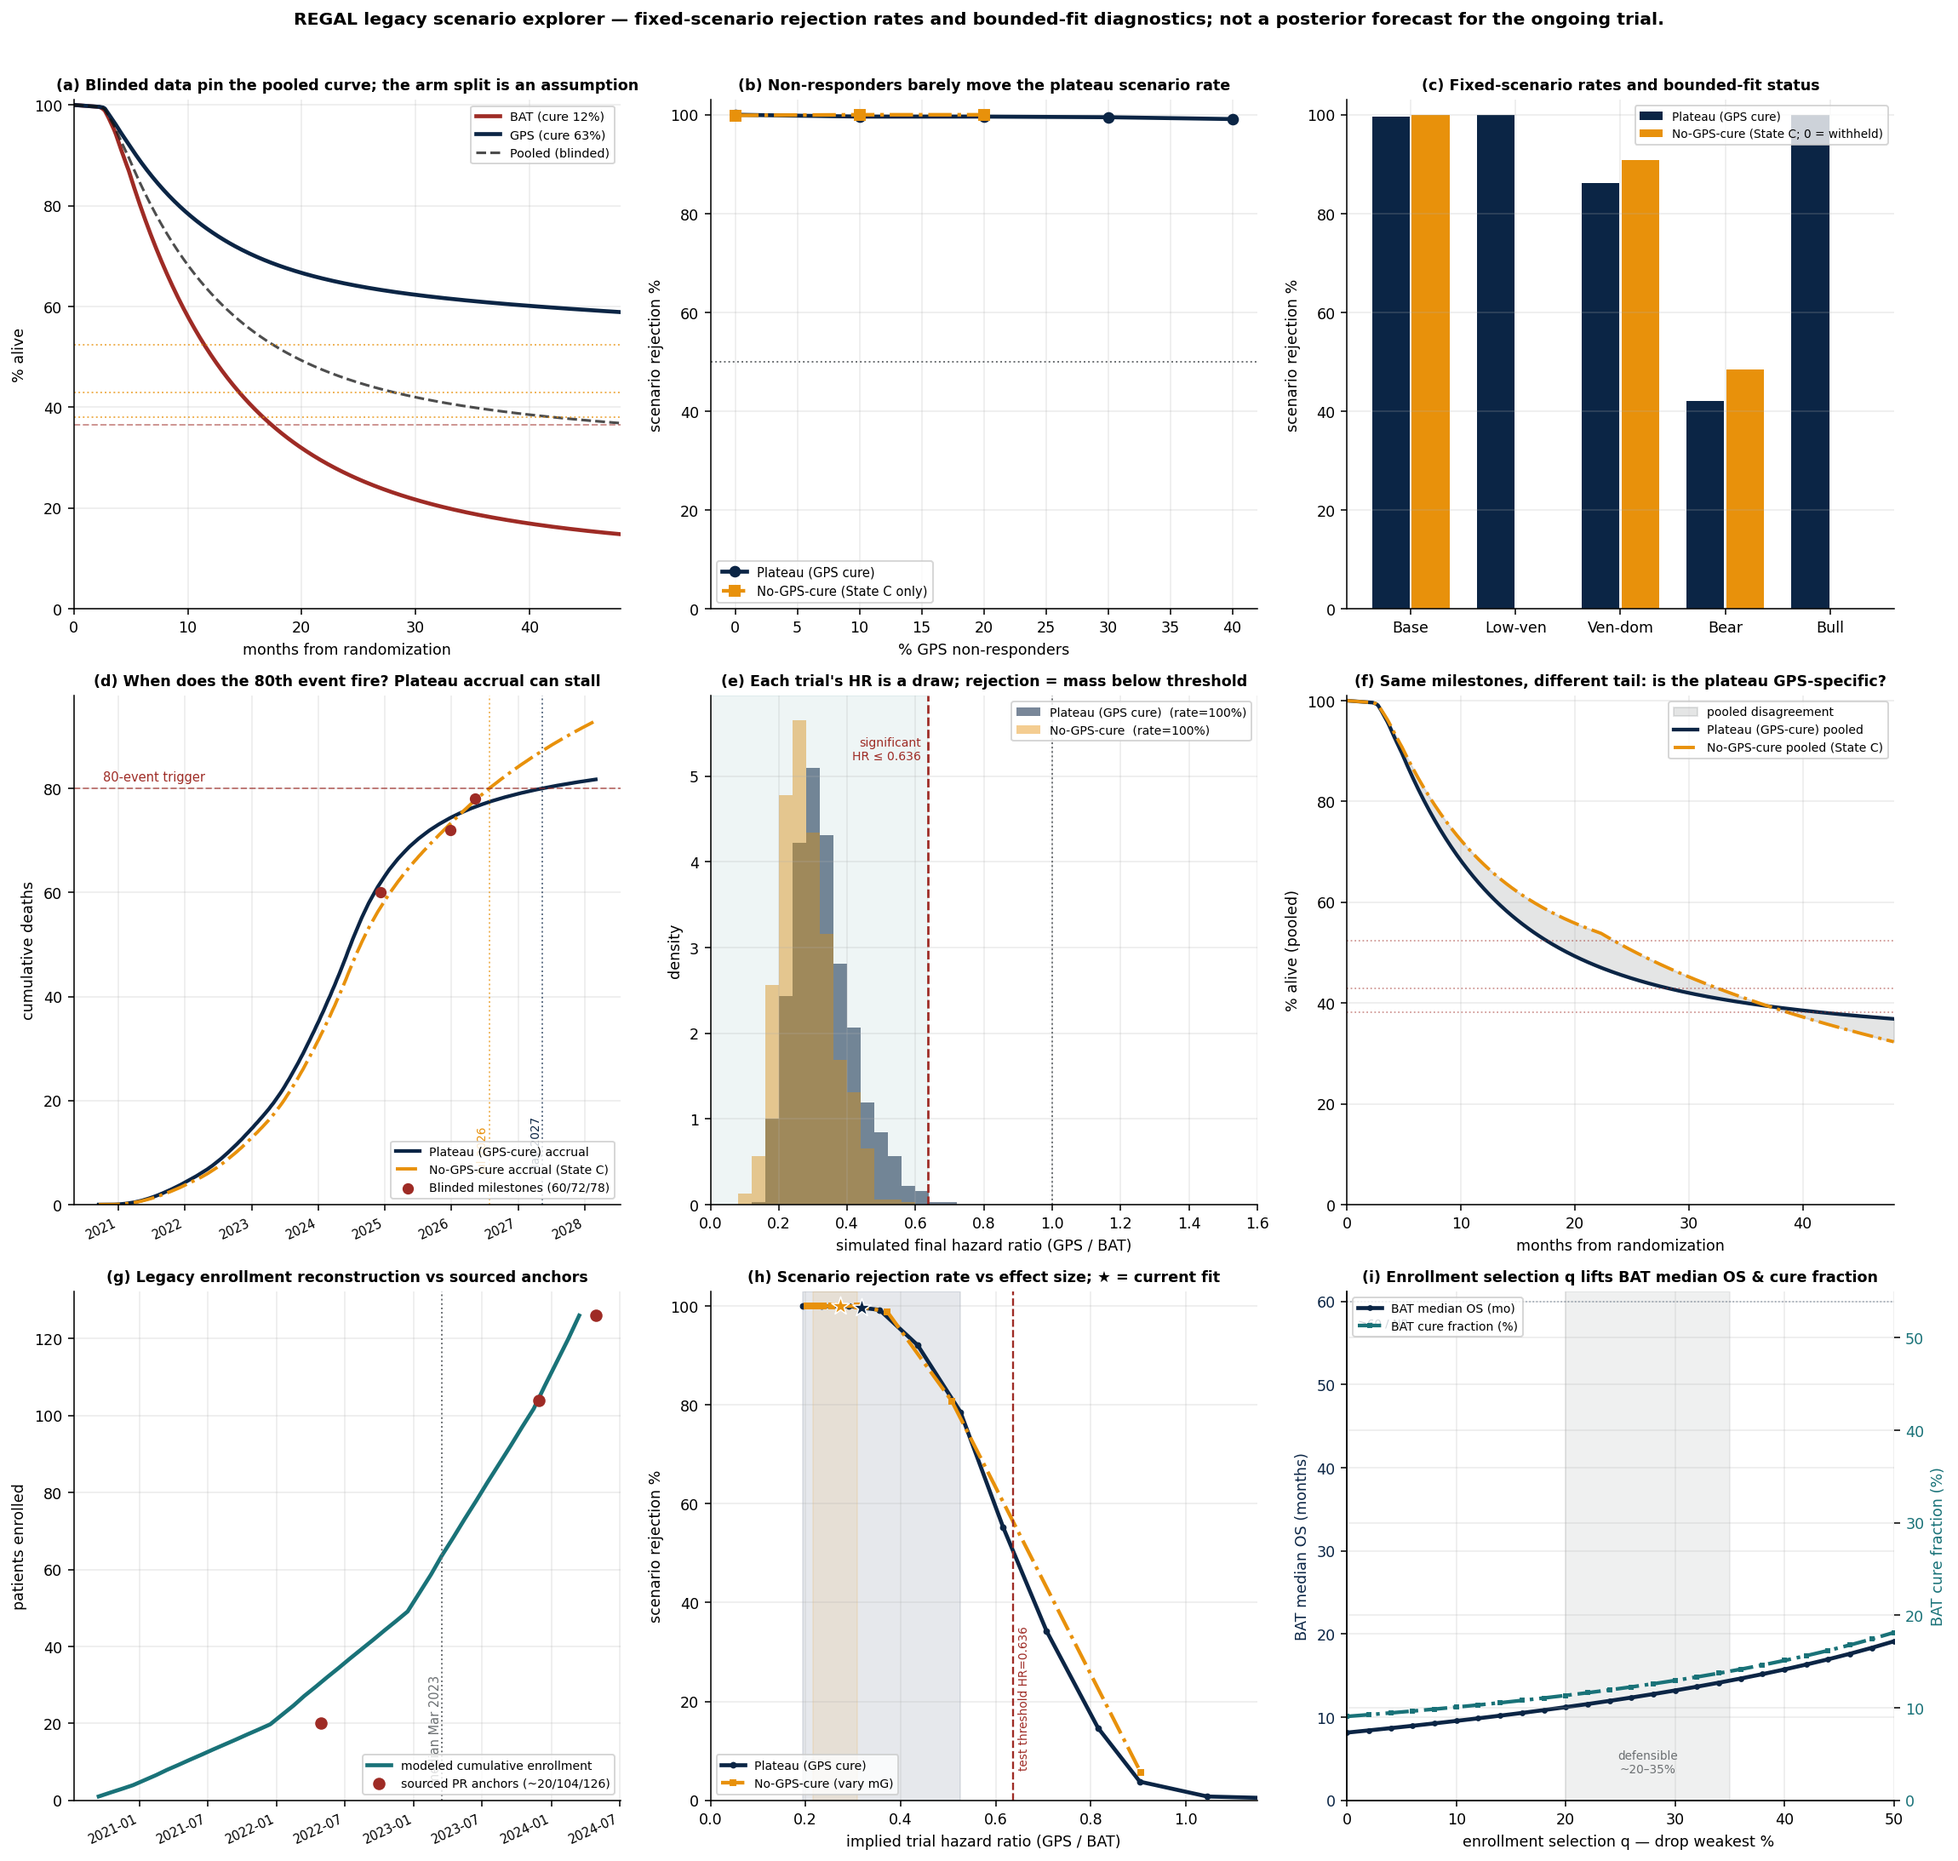
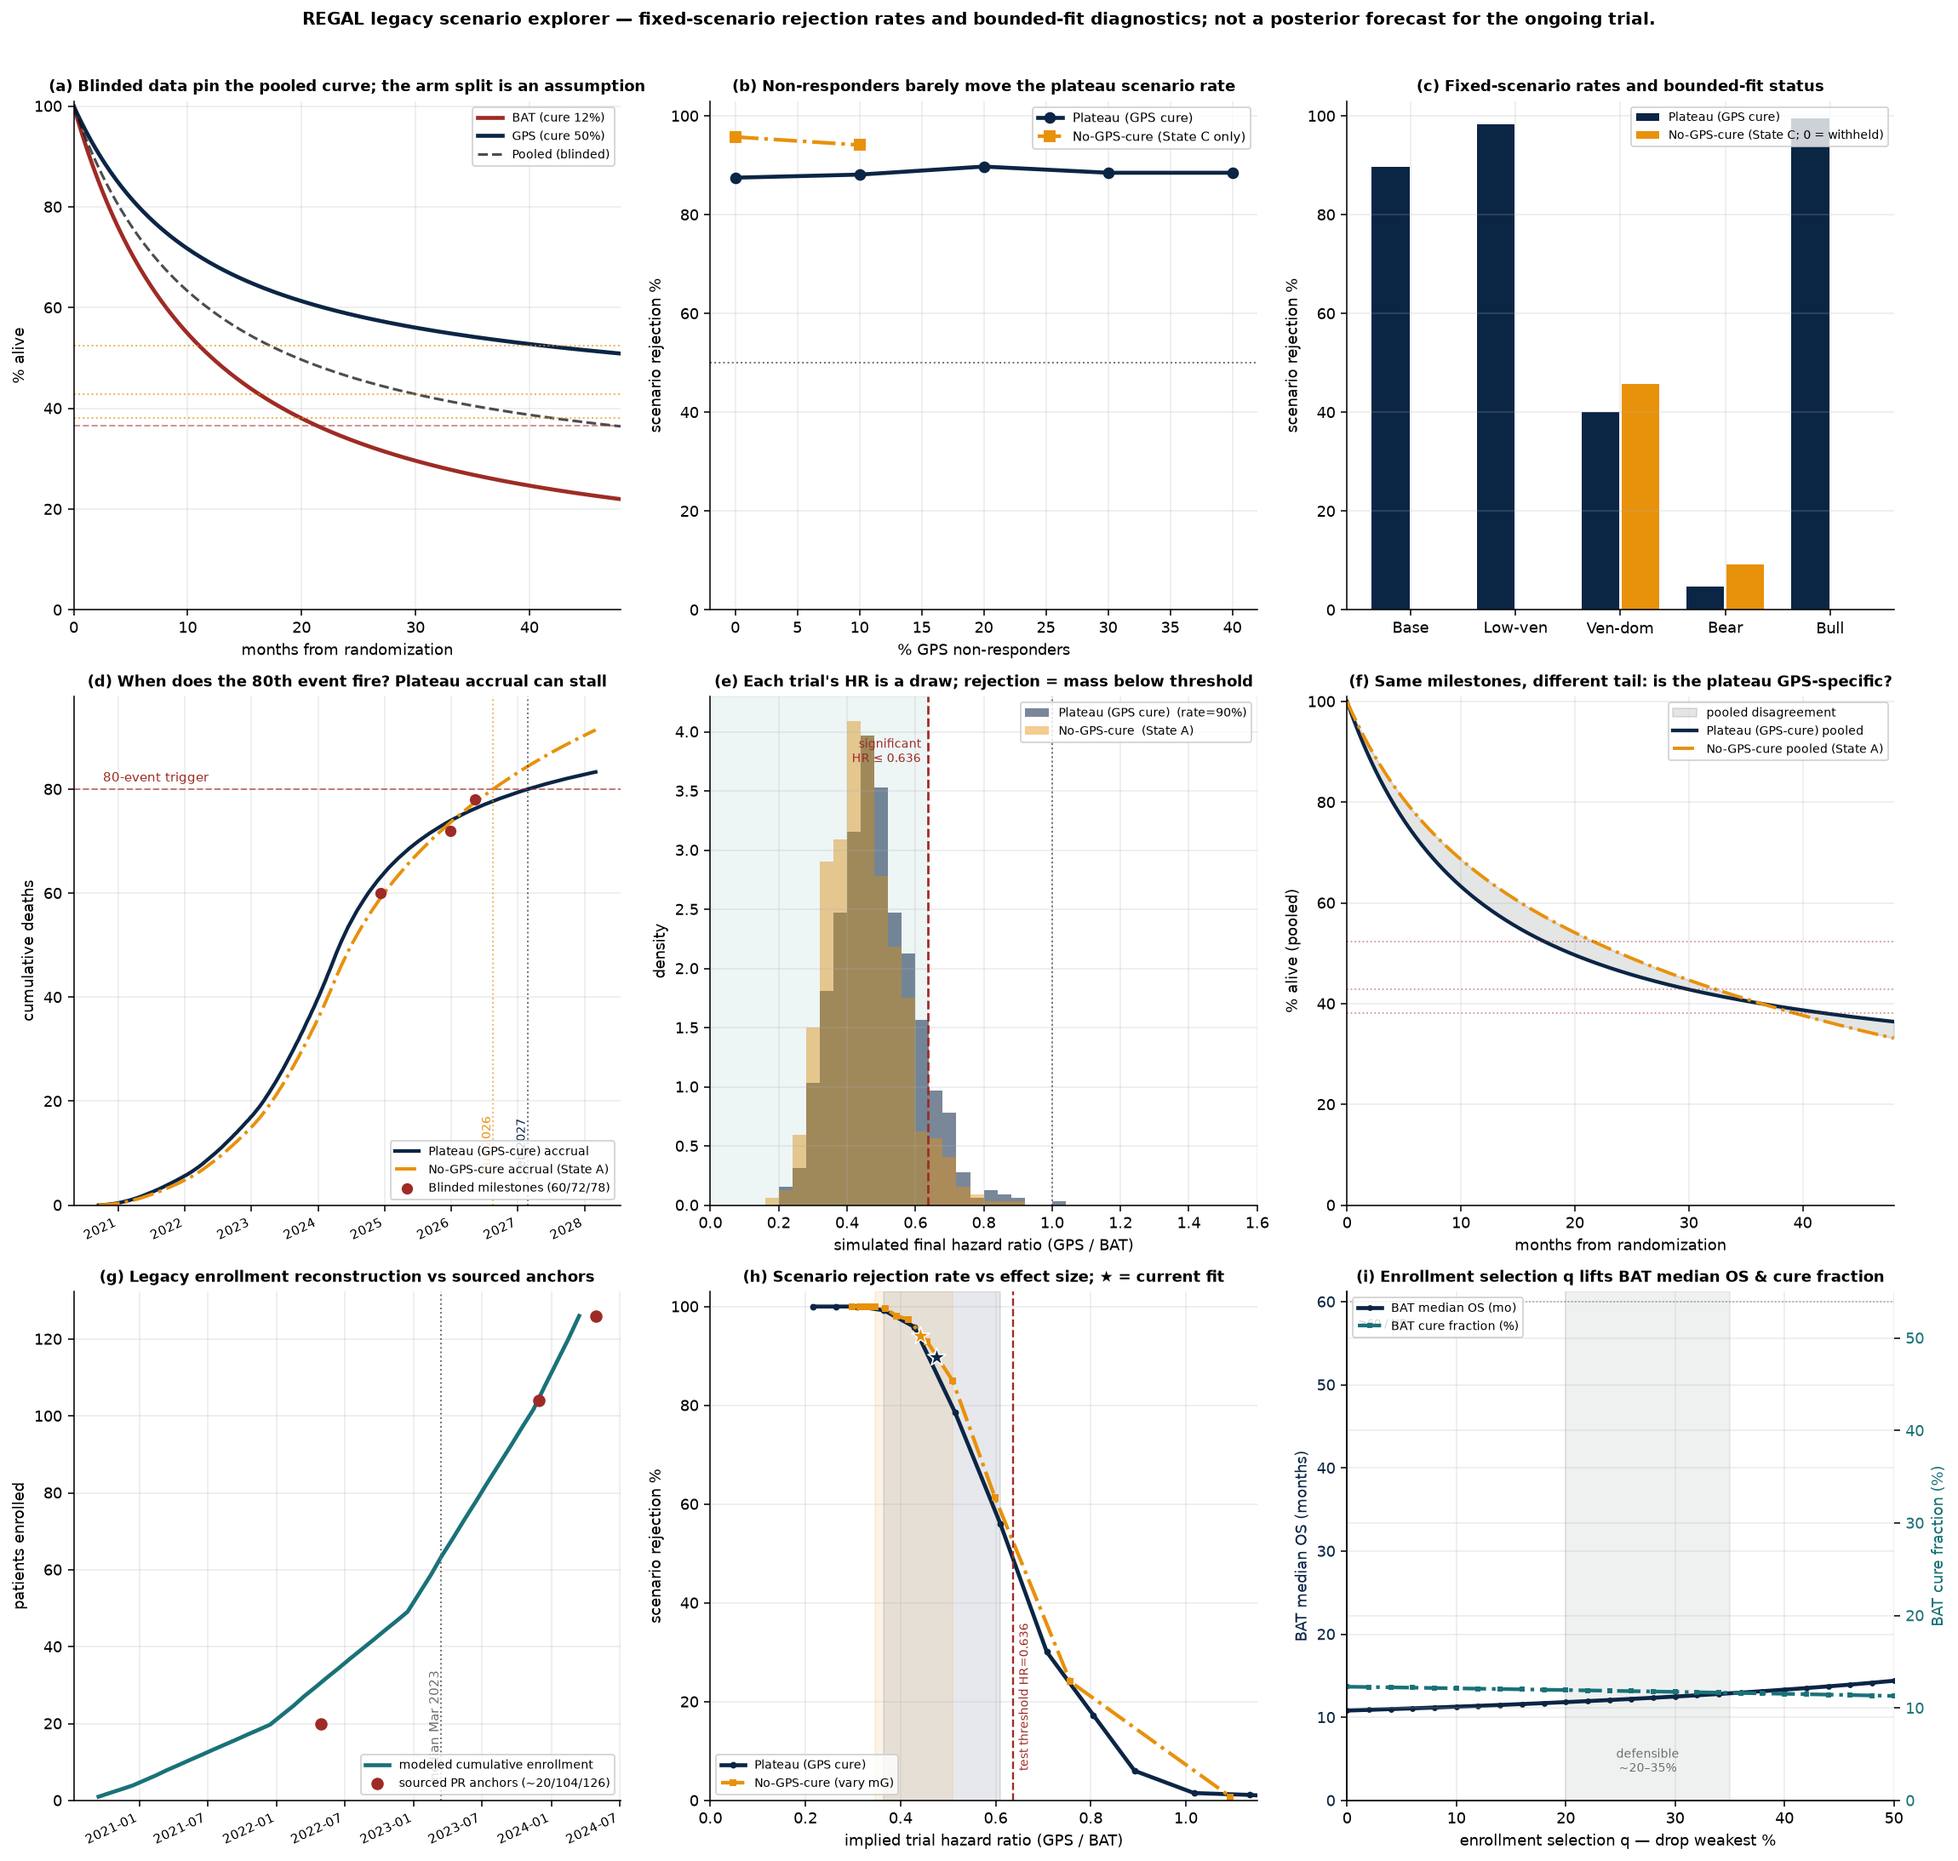
Regenerate the panel figure; align the boundary message across engines
Finding 8 from the review on PR #34, plus a divergence found while regenerating.

The tracked regal_explorer_panel.png still showed the pre-rework model: it was
last updated in f3d025c, before either selection commit. Regenerated from this
head. Regeneration is deterministic — two runs are byte-identical — so the
previous file was genuinely stale rather than PNG noise.

The Python and JS copies of the light-edge boundary message had diverged, with
the Python one reading "... unidentified here. This is this boundary does not
identify ...". This PR makes the base preset land on that branch, so the string
is now printed on every default CLI run. Aligned Python to the JS wording.

Finding 4 (regenerating the stale derived numbers in the documentation and the
executive conclusions) is in the preceding commit, b5063e6, whose message
covers findings 1, 2, 3, 5, 6 and 7 but omits it. The changes themselves are
there: the results table, the preset sweep, the dropout sweep, the dead-fraction
note and conclusion 4 were all regenerated against this engine and reconciled
with the committed golden bundle.

Claude-Session: https://claude.ai/code/session_01AuPz3ath6gwi9pE6vDcBym

diff --git a/regal_explorer.py b/regal_explorer.py
@@ -500,8 +500,8 @@ def build_no_gps_cure(cfg):
     elif sg_light:
         state = "A"
         reason = ("GPS tail pinned at the light edge (%.2f): the milestones want an even lighter "
-                  "(sharper, increasing-hazard) responder tail, so the no-cure fit is unidentified here. This is "
-                  "this boundary does not identify whether a GPS-specific cure exists" % SGMAX)
+                  "(sharper, increasing-hazard) responder tail, so the no-cure fit is unidentified here. "
+                  "This boundary does not identify whether a GPS-specific cure exists" % SGMAX)
     elif rms_resid > RMS_TOL or max_off > OFF_TOL:
         state = "B"
         reason = "residual RMS %.1f (modeled %s vs %s)" % (rms_resid, "/".join("%.0f" % x for x in edv), "/".join("%.0f" % x for x in MOBS))
